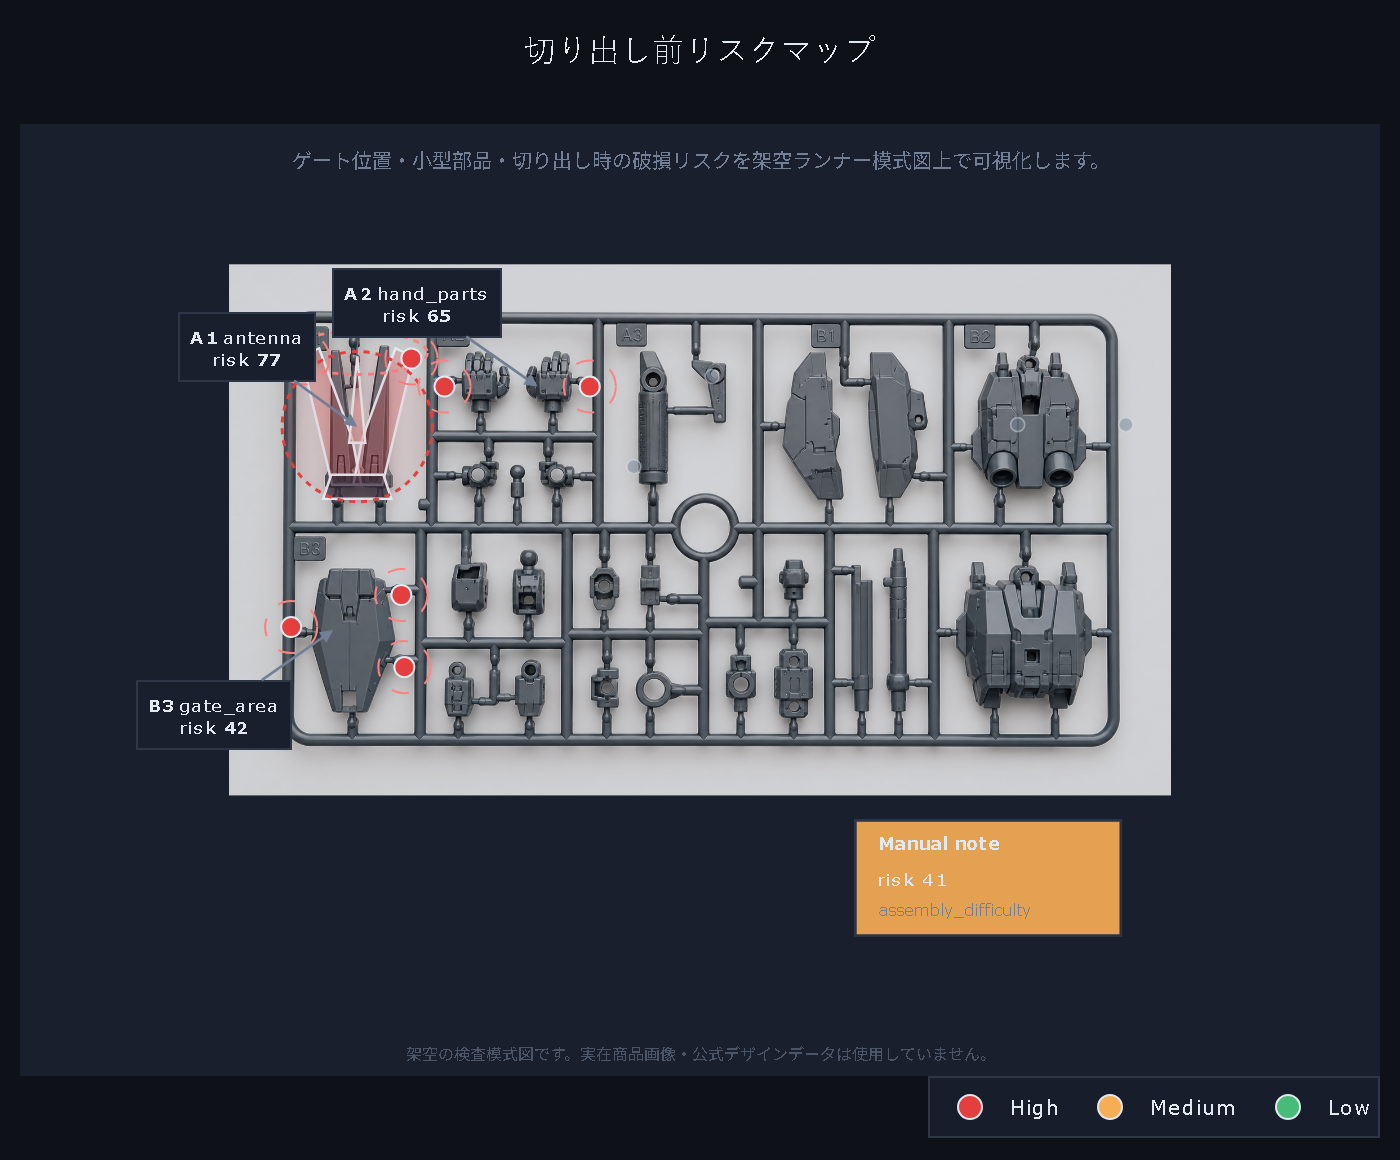
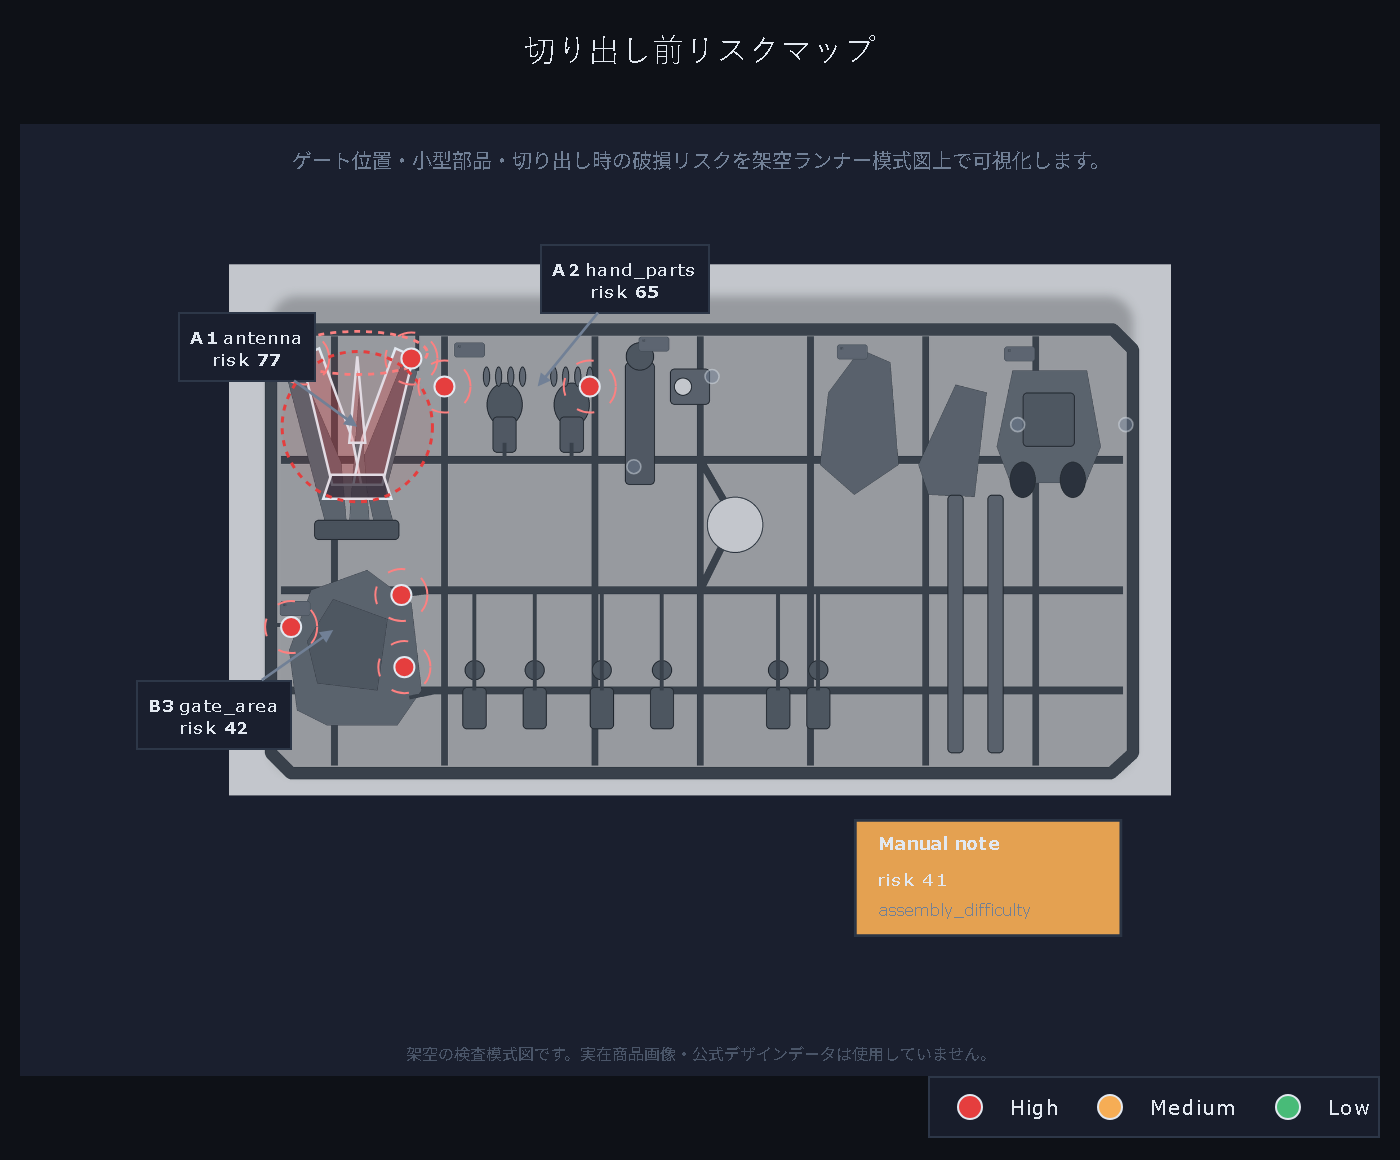
Regenerate runner map with coherent V antenna

Changed region(s): [[0.1843, 0.2172, 0.8293, 0.6828]]

diff --git a/scripts/generate_portfolio_assets.py b/scripts/generate_portfolio_assets.py
@@ -7,6 +7,7 @@ import shutil
 import matplotlib.pyplot as plt
 import pandas as pd
 from matplotlib.patches import Rectangle
+from PIL import Image, ImageDraw, ImageFilter
 
 ROOT_DIR = Path(__file__).resolve().parents[1]
 sys.path.insert(0, str(ROOT_DIR))
@@ -40,6 +41,7 @@ def main() -> None:
     result_df = build_result_dataframe(records)
     priority_df = build_priority_ranking_dataframe(records)
 
+    _generate_runner_background(ASSETS_DIR / "runner_bg_realistic.png")
     _save_risk_map(records, "runner_state", ASSETS_DIR / "runner_sample.png")
     shutil.copyfile(ASSETS_DIR / "runner_sample.png", SCREENSHOTS_DIR / "risk_map_runner_view.png")
     _save_dashboard_overview(records, result_df, priority_df, SCREENSHOTS_DIR / "dashboard.png")
@@ -55,6 +57,113 @@ def _save_image_based_report(records: list[dict], output_path: Path) -> None:
     runner_findings = build_image_based_findings(records, "runner_state")
     report = build_runner_image_report(runner_findings, "assets/runner_sample.png")
     output_path.write_text(report, encoding="utf-8")
+
+
+def _generate_runner_background(output_path: Path) -> None:
+    """Generate a fictional runner sheet whose A1 part is visibly a V antenna."""
+
+    width, height, scale = 1672, 941, 2
+    image = Image.new("RGB", (width * scale, height * scale), "#E9ECEF")
+    draw = ImageDraw.Draw(image)
+
+    def pt(x: float, y: float) -> tuple[int, int]:
+        px = int((x - 0.30) / 9.40 * width * scale)
+        py = int((8.10 - y) / 5.30 * height * scale)
+        return px, py
+
+    def line(points: list[tuple[float, float]], color: str = "#414A52", width_px: int = 15) -> None:
+        draw.line([pt(x, y) for x, y in points], fill=color, width=width_px * scale, joint="curve")
+
+    def poly(points: list[tuple[float, float]], fill: str = "#68717A", outline: str = "#2E353B") -> None:
+        draw.polygon([pt(x, y) for x, y in points], fill=fill, outline=outline)
+
+    def ellipse(cx: float, cy: float, rx: float, ry: float, fill: str = "#59636C", outline: str = "#2E353B") -> None:
+        x0, y0 = pt(cx - rx, cy + ry)
+        x1, y1 = pt(cx + rx, cy - ry)
+        draw.ellipse([x0, y0, x1, y1], fill=fill, outline=outline, width=2 * scale)
+
+    def rect(x0: float, y0: float, x1: float, y1: float, fill: str = "#68717A", outline: str = "#2E353B") -> None:
+        a = pt(x0, y1)
+        b = pt(x1, y0)
+        draw.rounded_rectangle([a, b], radius=8 * scale, fill=fill, outline=outline, width=2 * scale)
+
+    # Subtle surface and frame.
+    shadow = Image.new("RGBA", image.size, (0, 0, 0, 0))
+    shadow_draw = ImageDraw.Draw(shadow)
+    shadow_draw.rounded_rectangle(
+        [pt(0.72, 7.78), pt(9.32, 3.02)],
+        radius=46 * scale,
+        fill=(0, 0, 0, 58),
+    )
+    shadow = shadow.filter(ImageFilter.GaussianBlur(8 * scale))
+    image = Image.alpha_composite(image.convert("RGBA"), shadow).convert("RGB")
+    draw = ImageDraw.Draw(image)
+
+    # Runner frame and internal sprues.
+    line([(0.92, 7.45), (9.12, 7.45), (9.32, 7.25), (9.32, 3.22), (9.10, 3.02), (0.92, 3.02), (0.72, 3.22), (0.72, 7.25), (0.92, 7.45)], width_px=22)
+    for y in (6.15, 4.85, 3.85):
+        line([(0.82, y), (9.22, y)], width_px=14)
+    for x in (1.35, 2.45, 3.95, 5.00, 6.10, 7.25, 8.35):
+        line([(x, 7.38), (x, 3.10)], width_px=12)
+    line([(5.00, 6.15), (5.35, 5.55), (5.00, 4.85)], width_px=13)
+    ellipse(5.35, 5.50, 0.28, 0.28, fill="#E9ECEF", outline="#414A52")
+
+    # A1: fictional V antenna with tip gates.
+    poly([(1.28, 5.45), (1.48, 5.45), (1.42, 6.12), (0.98, 7.14), (0.86, 7.04), (1.18, 5.82)], fill="#6B737C")
+    poly([(1.76, 5.45), (1.96, 5.45), (1.86, 5.82), (2.18, 7.04), (2.04, 7.14), (1.62, 6.12)], fill="#6B737C")
+    poly([(1.50, 5.52), (1.60, 6.85), (1.70, 5.52)], fill="#757E86")
+    rect(1.15, 5.35, 2.00, 5.55, fill="#555E67")
+    line([(0.98, 7.14), (0.98, 7.45)], width_px=7)
+    line([(2.18, 7.04), (2.18, 7.45)], width_px=7)
+
+    # A2: hand parts, two small clustered pieces.
+    for cx in (3.05, 3.72):
+        ellipse(cx, 6.70, 0.18, 0.22)
+        rect(cx - 0.12, 6.22, cx + 0.12, 6.58, fill="#5D6670")
+        for dx in (-0.18, -0.06, 0.06, 0.18):
+            ellipse(cx + dx, 6.98, 0.035, 0.10, fill="#6E7780")
+        line([(cx, 6.15), (cx, 6.32)], width_px=7)
+
+    # A3: grip / tool-like long part.
+    rect(4.25, 5.90, 4.55, 7.12, fill="#5D6670")
+    ellipse(4.40, 7.18, 0.14, 0.14)
+    rect(4.70, 6.70, 5.10, 7.06, fill="#68717A")
+    ellipse(4.83, 6.88, 0.09, 0.09, fill="#E9ECEF")
+
+    # B1 / filler armor panels.
+    poly([(6.28, 6.82), (6.60, 7.25), (6.90, 7.12), (6.98, 6.10), (6.54, 5.80), (6.20, 6.10)])
+    poly([(7.18, 6.10), (7.55, 6.90), (7.86, 6.82), (7.74, 5.78), (7.28, 5.80)])
+
+    # B2: backpack block with nozzles.
+    poly([(8.10, 5.92), (8.85, 5.92), (9.00, 6.28), (8.86, 7.04), (8.12, 7.04), (7.96, 6.28)], fill="#6A737C")
+    rect(8.22, 6.28, 8.74, 6.82, fill="#5B646D")
+    ellipse(8.22, 5.95, 0.13, 0.18, fill="#303841")
+    ellipse(8.72, 5.95, 0.13, 0.18, fill="#303841")
+
+    # B3: gate-mark inspection armor panel.
+    poly([(0.98, 3.65), (1.28, 3.50), (1.98, 3.50), (2.22, 3.85), (2.12, 4.72), (1.68, 5.05), (1.12, 4.85), (0.90, 4.25)], fill="#6A737C")
+    poly([(1.18, 3.92), (1.78, 3.85), (1.88, 4.56), (1.34, 4.76), (1.08, 4.34)], fill="#5B646D")
+    line([(0.88, 4.50), (0.72, 4.50)], width_px=7)
+    line([(2.05, 4.80), (2.45, 4.85)], width_px=7)
+    line([(2.10, 3.78), (2.45, 3.85)], width_px=7)
+
+    # Lower-row small filler parts.
+    for cx in (2.75, 3.35, 4.02, 4.62, 5.78, 6.18):
+        rect(cx - 0.12, 3.46, cx + 0.12, 3.88, fill="#59636C")
+        ellipse(cx, 4.05, 0.10, 0.10)
+        line([(cx, 3.85), (cx, 4.85)], width_px=7)
+    for cx in (7.55, 7.95):
+        rect(cx - 0.08, 3.22, cx + 0.08, 5.80, fill="#68717A")
+
+    # Embossed runner labels.
+    for label, x, y in [("A1", 0.95, 7.22), ("A2", 2.66, 7.24), ("A3", 4.50, 7.30), ("B1", 6.48, 7.22), ("B2", 8.15, 7.20), ("B3", 0.92, 4.66)]:
+        px, py = pt(x, y)
+        draw.rounded_rectangle([px - 20 * scale, py - 14 * scale, px + 34 * scale, py + 12 * scale], radius=5 * scale, fill="#6D7680", outline="#515B64", width=1 * scale)
+        draw.text((px - 14 * scale, py - 10 * scale), label, fill="#2F3740")
+
+    image = image.resize((width, height), Image.Resampling.LANCZOS)
+    output_path.parent.mkdir(parents=True, exist_ok=True)
+    image.save(output_path)
 
 
 def _save_dashboard_overview(

diff --git a/part_visualizer.py b/part_visualizer.py
@@ -66,7 +66,7 @@ RUNNER_PART_LAYOUT = {
         "part_no": "A2",
         "center": (3.38, 6.88),
         "gate_points": [(2.45, 6.88), (3.90, 6.88)],
-        "ann": {"ax": -60, "ay": -42},
+        "ann": {"ax": 44, "ay": -54},
     },
     "weapon_grip": {
         "part_no": "A3",
